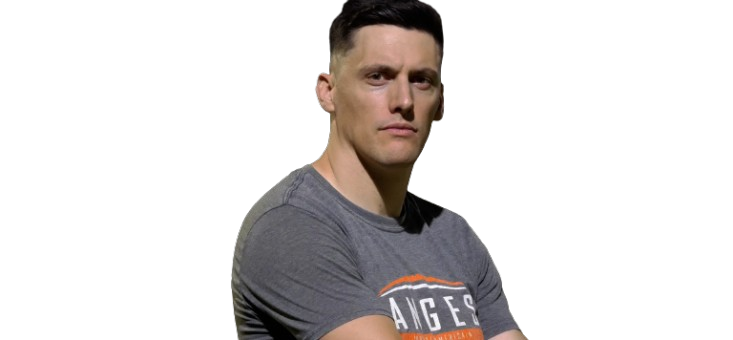
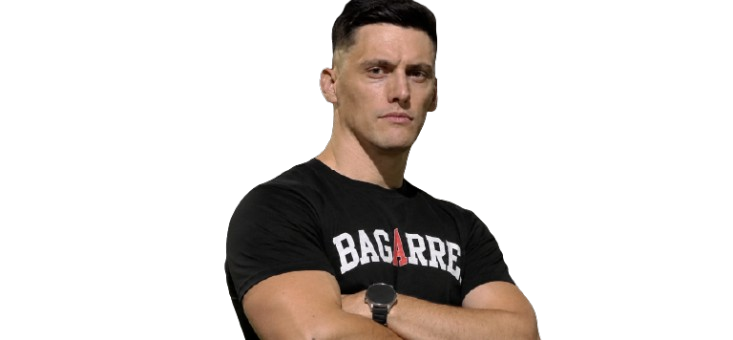
V1.3

Changed region(s): [[0.3001, 0.0, 0.7503, 1.0]]

diff --git a/src/components/header.tsx b/src/components/header.tsx
@@ -113,7 +113,8 @@ export const Header = memo(() => {
 
                 {!isMobile && (
                     <nav className="header-nav">
-                        <a href={NOUS_REJOINDRE_ROUTE} className="nav-list" style={{ textDecoration: "none", color: "var(--main-color)" }}>Nous rejoindre</a>
+                        <a href="https://www.helloasso.com/associations/les-anges-40/adhesions/adhesion-2026-2027" className="nav-list" style={{ textDecoration: "none", color: "var(--main-color)" }}>Nous rejoindre</a>
+                        {/* <a href={NOUS_REJOINDRE_ROUTE} className="nav-list" style={{ textDecoration: "none", color: "var(--main-color)" }}>Nous rejoindre</a> */}
                         <ul className="nav-list">
                             {session?.user ? (
                                 <li className="nav-item user-menu" ref={menuRef}>
@@ -153,7 +154,8 @@ export const Header = memo(() => {
                     <a href={STAFF_ROUTE} className="dropdown-item" onClick={closeMobileMenu}>Staff</a>
                     <a href={BUREAU_ROUTE} className="dropdown-item" onClick={closeMobileMenu}>Bureau</a>
                     <a href={RESULTATS_ROUTE} className="dropdown-item" onClick={closeMobileMenu}>Résultats</a>
-                    <a href={NOUS_REJOINDRE_ROUTE} className="dropdown-item" onClick={closeMobileMenu}>Nous rejoindre</a>
+                    <a href="https://www.helloasso.com/associations/les-anges-40/adhesions/adhesion-2026-2027" className="dropdown-item" onClick={closeMobileMenu}>Nous rejoindre</a>
+                    {/* <a href={NOUS_REJOINDRE_ROUTE} className="dropdown-item" onClick={closeMobileMenu}>Nous rejoindre</a> */}
                     {session?.user ? (
                         <>
                             <a href={DRIVE_ROUTE} className="dropdown-item" onClick={closeMobileMenu}>Drive</a>

diff --git a/src/app/cheer/Cheer.tsx b/src/app/cheer/Cheer.tsx
@@ -25,7 +25,8 @@ export default function CheerPage() {
                             <h2>Prêt à relever le défi ?</h2>
                             {/* <p>Lorem Ipsum is simply dummy text of the printing and typesetting industry.</p> */}
                         </div>
-                        <Link href="/nous-rejoindre" className="cta-button-glow">
+                        <Link href="https://www.helloasso.com/associations/les-anges-40/adhesions/adhesion-2026-2027" className="cta-button-glow">
+                            {/* <Link href="/nous-rejoindre" className="cta-button-glow"> */}
                             <span>Nous rejoindre</span>
                             <div className="cta-icon">
                                 <svg viewBox="0 0 24 24" fill="none" stroke="currentColor" strokeWidth="2" strokeLinecap="round" strokeLinejoin="round"><path d="M5 12h14M12 5l7 7-7 7" /></svg>

diff --git a/src/app/flag/Flag.tsx b/src/app/flag/Flag.tsx
@@ -26,7 +26,8 @@ export default function FlagPage() {
                             <h2>Prêt à relever le défi ?</h2>
                             {/* <p>Lorem Ipsum is simply dummy text of the printing and typesetting industry.</p> */}
                         </div>
-                        <Link href="/nous-rejoindre" className="cta-button-glow">
+                        <Link href="https://www.helloasso.com/associations/les-anges-40/adhesions/adhesion-2026-2027" className="cta-button-glow">
+                            {/* <Link href="/nous-rejoindre" className="cta-button-glow"> */}
                             <span>Nous rejoindre</span>
                             <div className="cta-icon">
                                 <svg viewBox="0 0 24 24" fill="none" stroke="currentColor" strokeWidth="2" strokeLinecap="round" strokeLinejoin="round"><path d="M5 12h14M12 5l7 7-7 7" /></svg>

diff --git a/src/app/foot/Foot.tsx b/src/app/foot/Foot.tsx
@@ -26,7 +26,8 @@ export default function FootPage() {
                             <h2>Prêt à relever le défi ?</h2>
                             {/* <p>Lorem Ipsum is simply dummy text of the printing and typesetting industry.</p> */}
                         </div>
-                        <Link href="/nous-rejoindre" className="cta-button-glow">
+                        <Link href="https://www.helloasso.com/associations/les-anges-40/adhesions/adhesion-2026-2027" className="cta-button-glow">
+                            {/* <Link href="/nous-rejoindre" className="cta-button-glow"> */}
                             <span>Nous rejoindre</span>
                             <div className="cta-icon">
                                 <svg viewBox="0 0 24 24" fill="none" stroke="currentColor" strokeWidth="2" strokeLinecap="round" strokeLinejoin="round"><path d="M5 12h14M12 5l7 7-7 7" /></svg>

diff --git a/src/app/staff/Staff.tsx b/src/app/staff/Staff.tsx
@@ -7,7 +7,7 @@ const staffData = [
     { name: "Yoann", role: "Coach Flag", image: "/assets/images/staff&bureau/pepito.png" },
     { name: "Benjamin", role: "Coach Foot", image: "/assets/images/staff&bureau/benjamin.png" },
     { name: "Rémi", role: "Coach Juniors", image: "/assets/images/staff&bureau/remis.png" },
-    { name: "Margaux", role: "Coach cheer", image: "/assets/images/staff&bureau/margaux.png" },
+    { name: "Emma", role: "Coach cheer", image: "/assets/images/staff&bureau/emma.png" },
     { name: "Carla", role: "Coach cheer", image: "/assets/images/staff&bureau/carla.png" },
     { name: "Magalie", role: "Arbitre", image: "/assets/images/staff&bureau/mag.png" },
     { name: "Thomas", role: "Arbitre", image: "/assets/images/staff&bureau/thomas.png" },

diff --git a/src/styles/bureau.css b/src/styles/bureau.css
@@ -94,8 +94,10 @@
   flex-direction: column;
   align-items: center;
   width: 100%;
-  padding: 2rem;
+  padding: 2rem 1rem;
   margin-top: 5rem;
+  box-sizing: border-box;
+  overflow-x: hidden;
 }
 
 .org-line {
@@ -148,6 +150,23 @@
   height: 20px;
   background-color: var(--orange-color, #ff4500);
 }
+
+@media (max-width: 768px) {
+  .org-presidents {
+    flex-wrap: wrap;
+    gap: 1.5rem;
+  }
+
+  .org-presidents .bureau-card {
+    min-width: 140px;
+  }
+}
+
+/* @media (max-width: 480px) {
+  .org-member-wrapper {
+    flex: 0 0 90%;
+  }
+} */
 
 @media (max-width: 1024px) {
   .org-members-row { gap: 0.5rem; }
